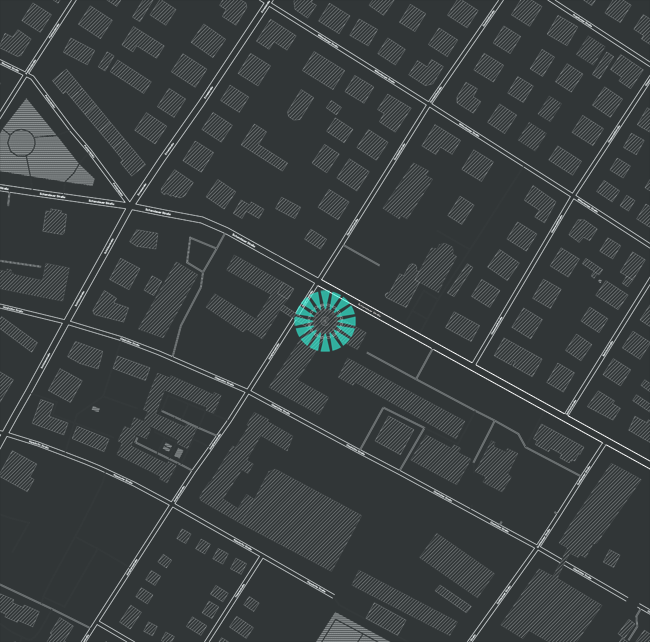
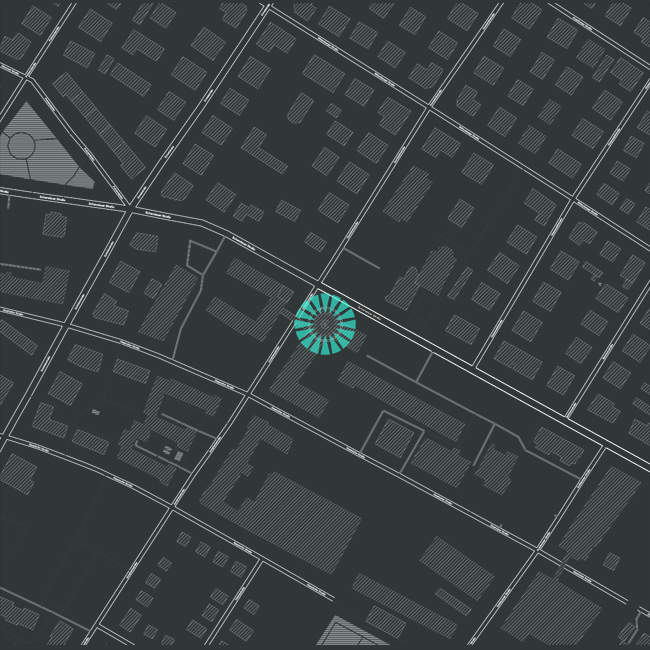
fixed window overlay over the map

diff --git a/turmwebapp/js/main.js b/turmwebapp/js/main.js
@@ -245,6 +245,13 @@ function computeColor(){
 	}
 	return rgbToHex(init[0],init[1],init[2]);
 }
+function alignMapAndOverlay(){
+		$("#heightlimiter").css('height', $("#mapImg").width()-8 + 'px');
+		$("#overlay").css('top', '-'+$("#mapImg").height()+'px');
+	}
+$( window ).resize(function() {
+	alignMapAndOverlay();
+	});
 function startSituation(){
 	//STEP 1
 	current_step = 1
@@ -258,6 +265,7 @@ function startSituation(){
 	user_position = null;
 	user_dist = null;
 	prefered_user_window = null; 
+	alignMapAndOverlay();
 	//STEP 2
 	var prefered_user_color = null;
 	prohibit_btn_step2
@@ -353,7 +361,6 @@ function rotateOverlay(inAngle)
     $( "#overlay" ).css({ '-moz-transform': 'rotate(' + inAngle + 'deg)'});
 }
 function clickOnImage(e, inOffset){
-
 	if( app_error )
 		return;
 
@@ -366,7 +373,7 @@ function clickOnImage(e, inOffset){
 	$("#highlight").show();
     $("#highlight").css({position: "absolute", top: (e.pageY-10), left: (e.pageX-10)});
 
-	var angle = Math.atan2((onPicX-320),(onPicY-320));
+	var angle = Math.atan2((onPicX-$("#mapImg").width()/2),(onPicY-$("#mapImg").height()/2));
 	angle = angle*180/Math.PI;
 	angle+=90;
 

diff --git a/turmwebapp/css/style.css b/turmwebapp/css/style.css
@@ -91,10 +91,11 @@ body {
 	opacity: 0.0;
 	pointer-events: none;
 	position: relative;
-	top: -442px;
+	top: -650px;
+	/*top: -442px;
 	padding-right:320px;
 	padding-top:122px;
-	width: 50%;
+	width: 50%;*/
 	z-index: 10;
 }
 #heightlimiter {
